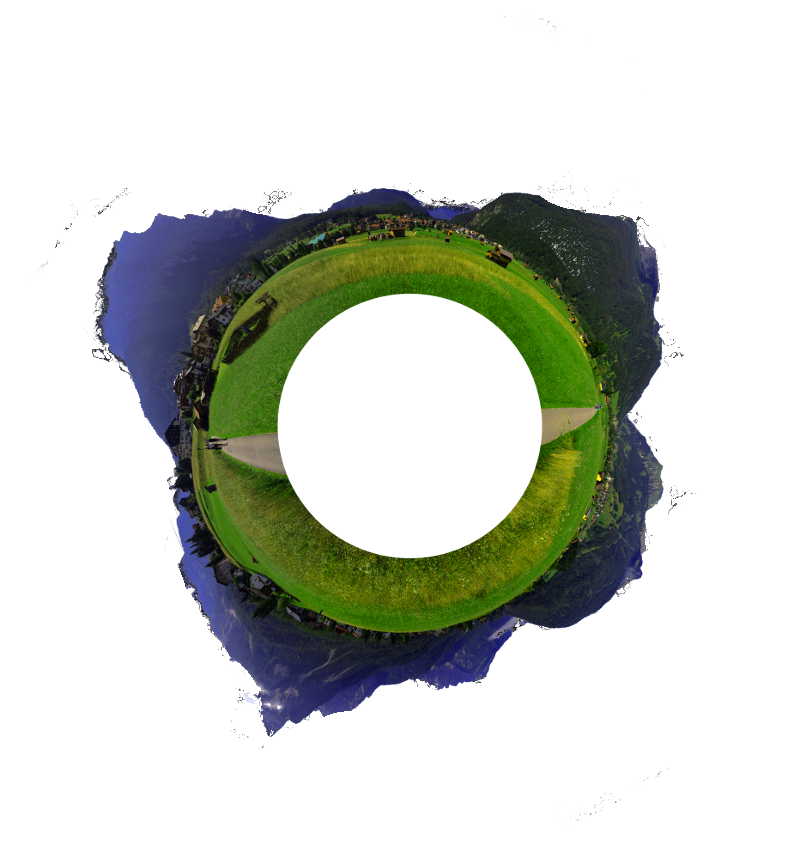
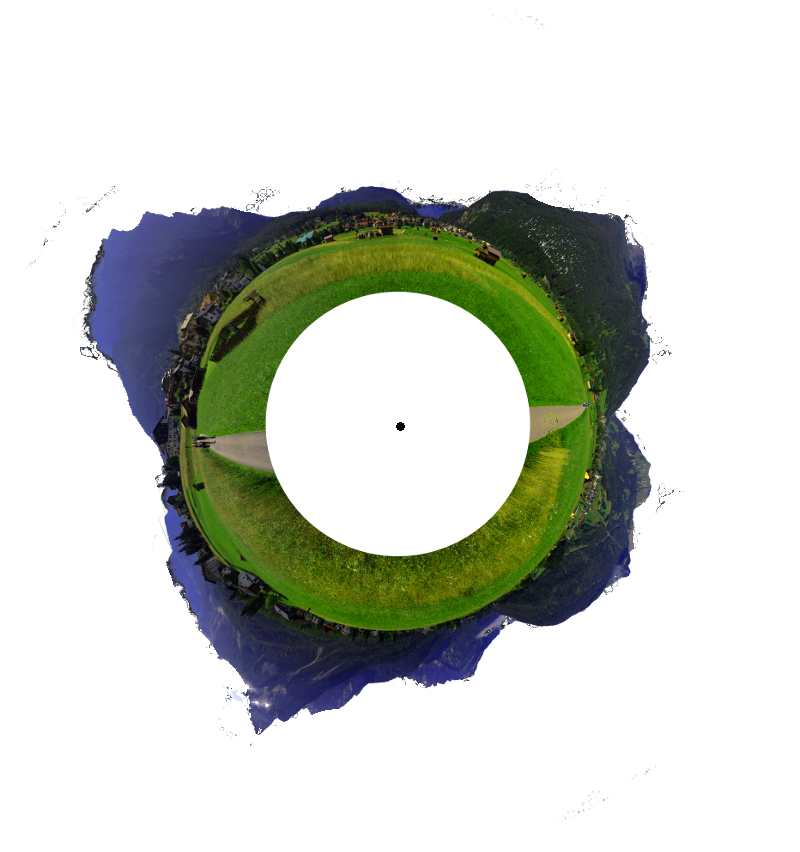
Started on animations for assets

Changed region(s): [[0.0938, 0.2136, 0.8438, 0.885]]

diff --git a/src/Animations/21_World.js b/src/Animations/21_World.js
@@ -8,18 +8,18 @@ const World = props => {
     <div className='card-animation'>
 
     <img alt='' src={mountains}
-    className='animation-rotate'
-    style={{ width: '250%', position: 'relative', left: '-70%', top: '-20%', filter: 'grayscale(100%)' }}
+    className='animation-rotate-slow'
+    style={{ width: '200%', position: 'relative', left: '-50%', top: '20%', filter: 'grayscale(70%)' }}
     />
 
     <img alt='' src={forest}
-    className='animation-rotate'
-    style={{ width: '150%', position: 'absolute', bottom: '-40%', left: '-20%', filter: 'grayscale(50%)' }}
+    className='animation-rotate-medium'
+    style={{ width: '150%', position: 'absolute', bottom: '-65%', left: '-25%', filter: 'grayscale(60%)' }}
     />
 
     <img alt='' src={town}
-    className='animation-rotate'
-    style={{ width: '100%', position: 'absolute', bottom: '-15%', left: '0%' }}
+    className='animation-rotate-fast'
+    style={{ width: '100%', position: 'absolute', bottom: '-45%', left: '0%' }}
     />
 
     </div>

diff --git a/src/App.css b/src/App.css
@@ -42,11 +42,29 @@
   animation: firefly 12s infinite;
 }
 
+@keyframes inkblot {
+  0% { filter: blur(60px) grayscale(100%) }
+  50% { filter: blur(0) grayscale(70%) }
+  100% { filter: blur(0) grayscale(0%) }
+}
+
+.inkblot {
+  animation: inkblot 20s;
+}
+
 @keyframes rotate {
   from { transform: rotate(0deg)}
   to { transform: rotate(360deg)}
 }
 
-.animation-rotate {
+.animation-rotate-fast {
   animation: rotate 10s infinite linear;
+}
+
+.animation-rotate-medium {
+  animation: rotate 15s infinite linear;
+}
+
+.animation-rotate-slow {
+  animation: rotate 20s infinite linear;
 }

diff --git a/src/Animations/2_HighPriestess.js b/src/Animations/2_HighPriestess.js
@@ -6,8 +6,10 @@ import kitty from '../Assets/2_High_Priestess_Cat.png'
 const HighPriestess = props => {
   return (
     <div className='card-animation'>
-      <img alt='' src={kitty}
-      style={{ height: '100%', position: 'relative', left: '-25%' }} />
+
+      <img alt='' src={kitty} className='inkblot'
+      style={{ height: '100%', position: 'absolute', left: '-25%' }} />
+
     </div>
   )
 }
